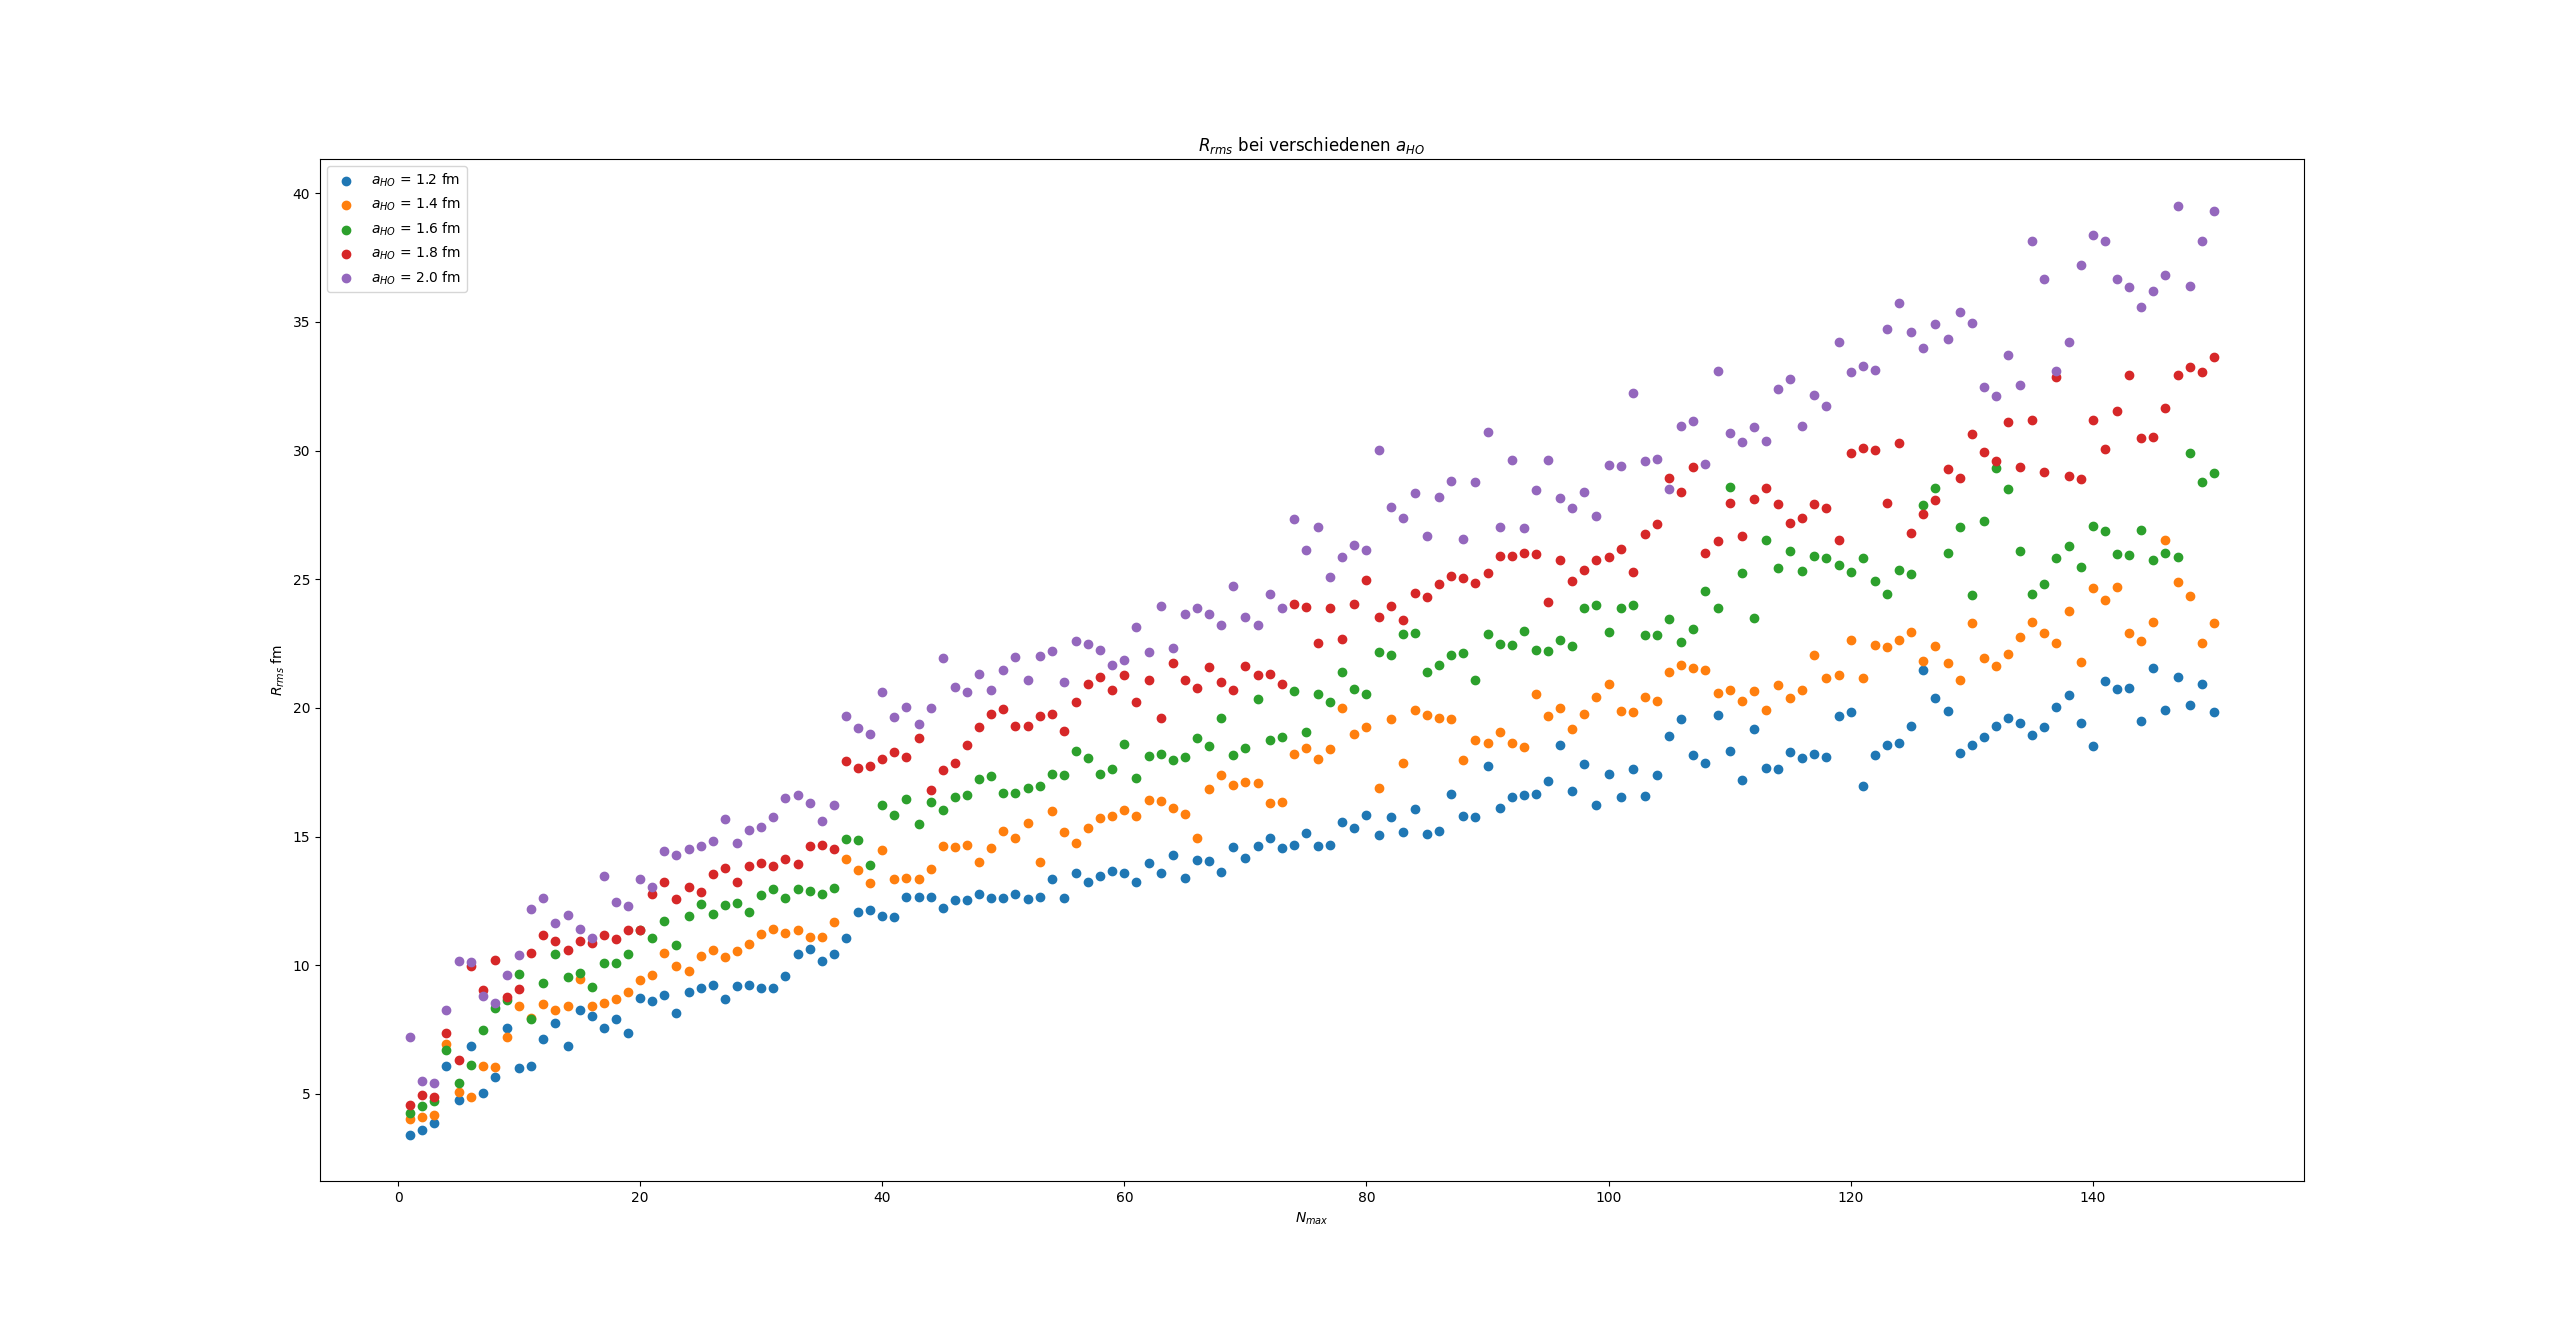
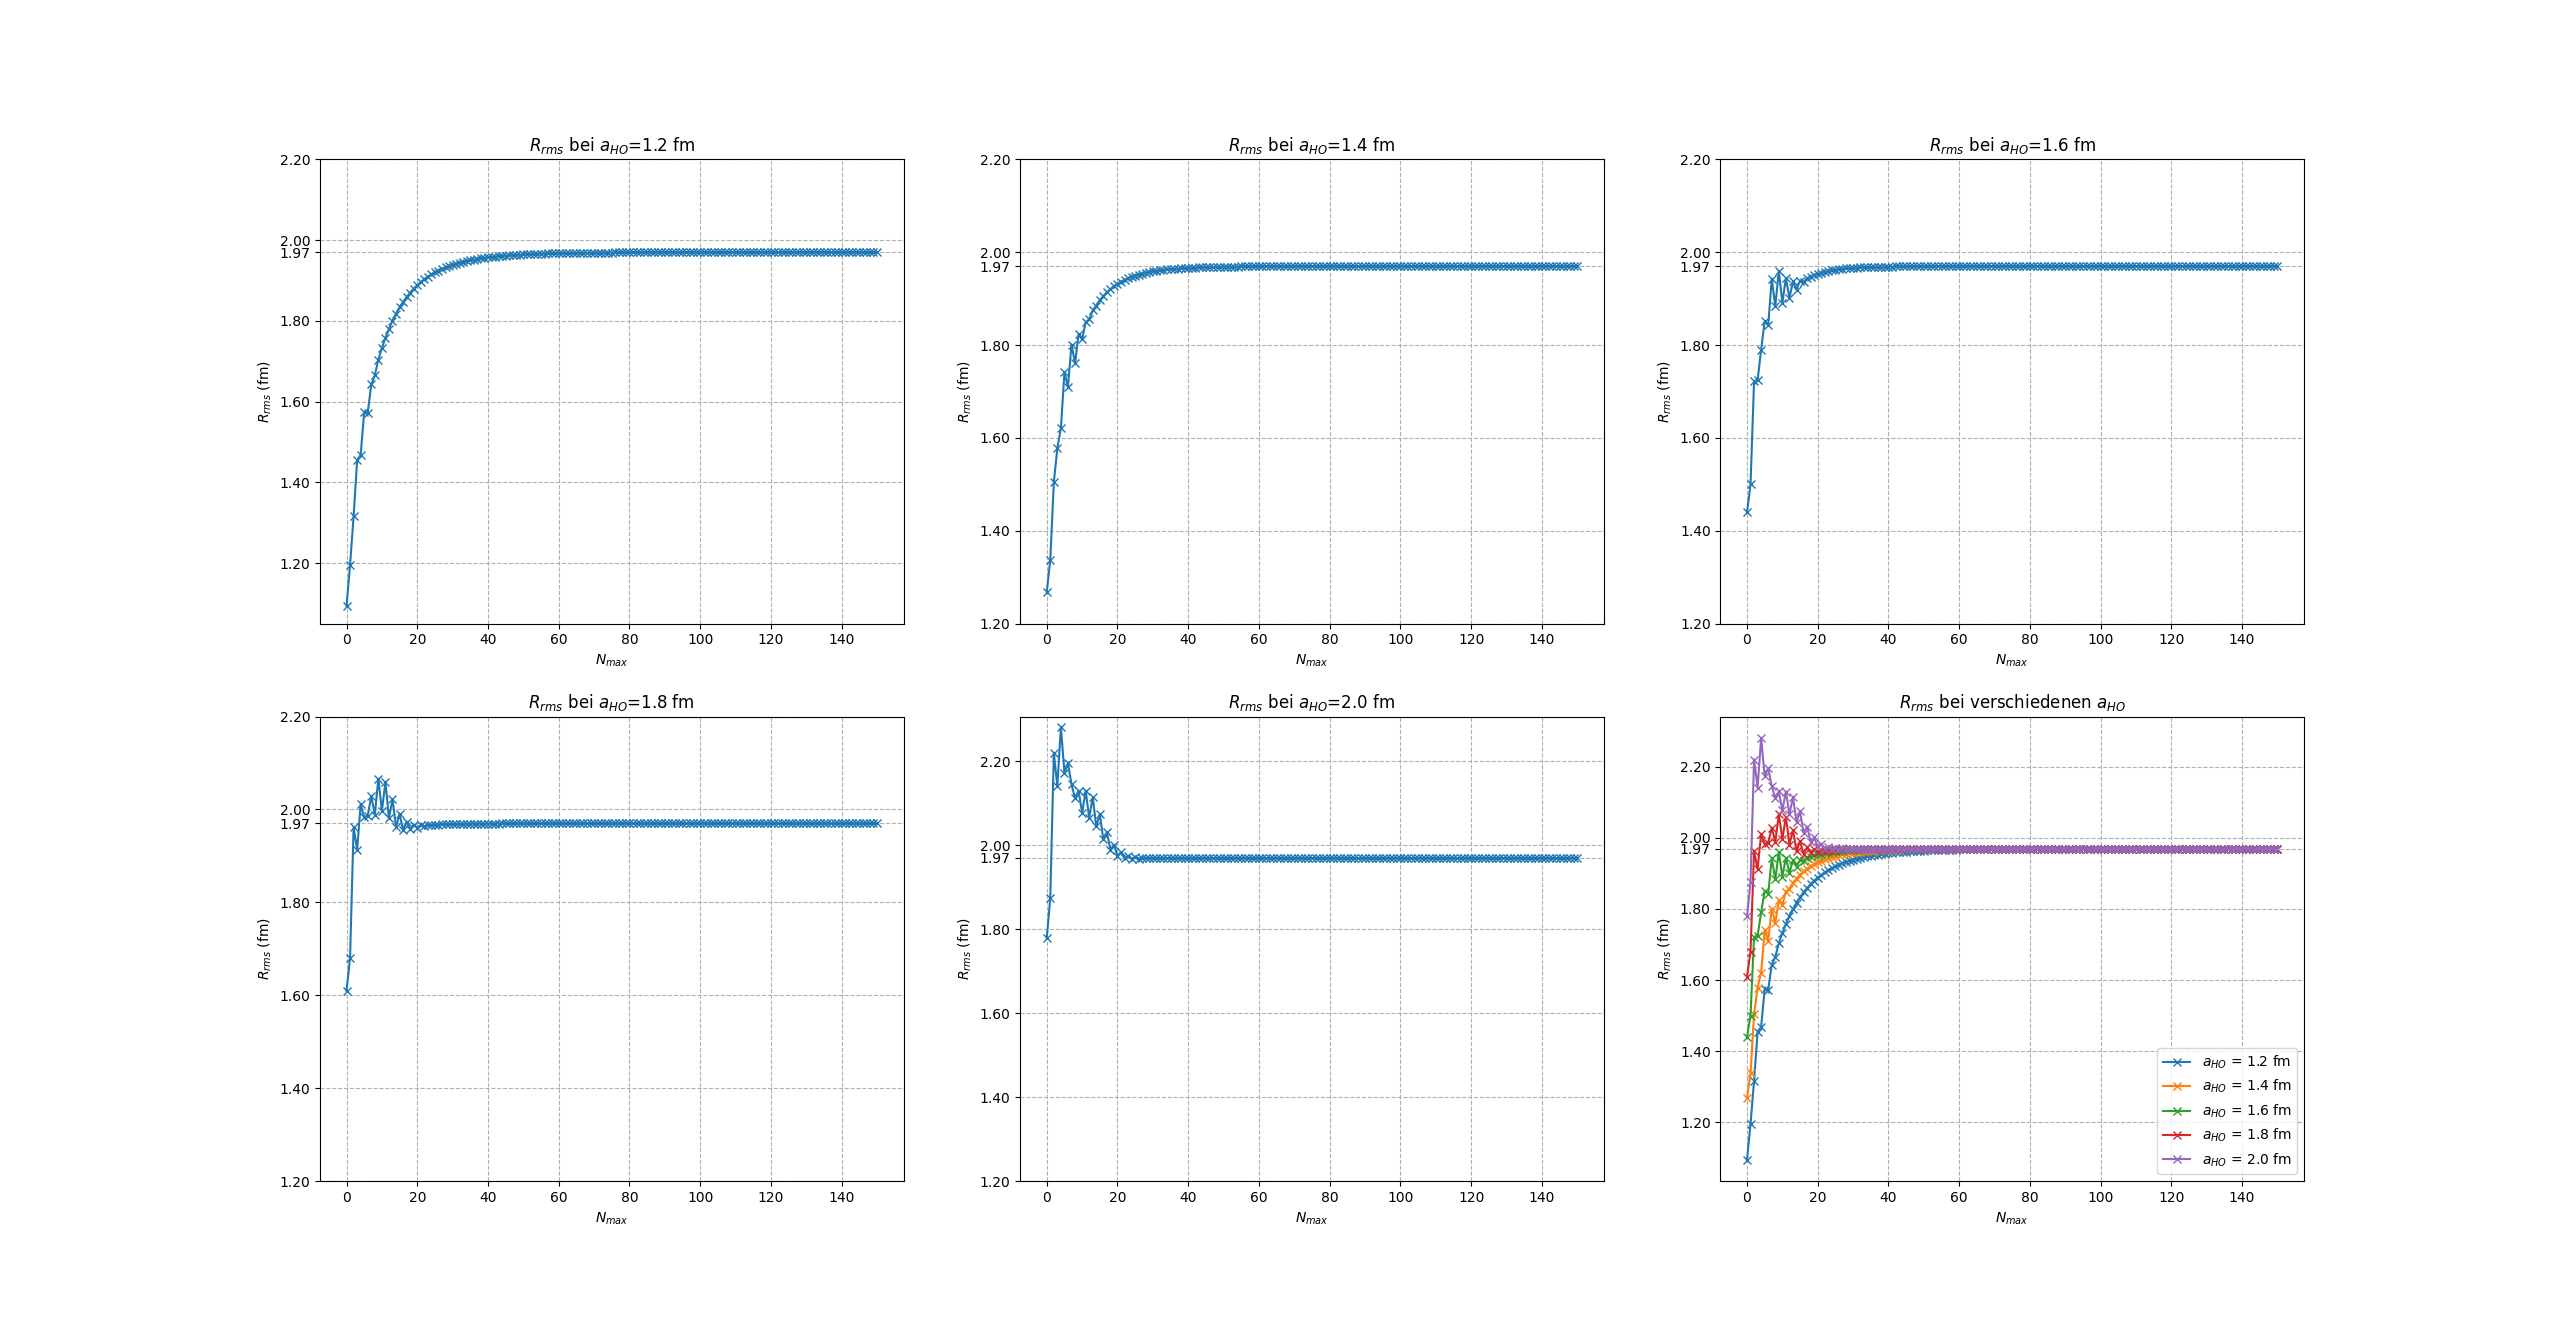
Rrms plots

diff --git a/rms_expval_parallel.py b/rms_expval_parallel.py
@@ -4,7 +4,6 @@ from create_matrix import mat
 from joblib import Parallel, delayed
 from concurrent.futures import ThreadPoolExecutor
 from math import sqrt
-import time
 
 
 chi_Nmax150_aHO12 = np.loadtxt(r'Matrixelemente/chi2bM3A_srg0000_NMax150_LMax02_aHO01.20.meho', skiprows=1)
@@ -18,16 +17,6 @@ rsq_Nmax150 = np.loadtxt(r'Matrixelemente/rsq_NMax150_LMax02.meho', skiprows=1)
 chi = np.array([chi_Nmax150_aHO12, chi_Nmax150_aHO14, chi_Nmax150_aHO16, chi_Nmax150_aHO18, chi_Nmax150_aHO20])
 aHO = np.array([1.2,1.4,1.6,1.8,2])
 
-# chi_mat = mat(chi_Nmax150_aHO16, 100)
-# trel_mat = mat(trel_Nmax150, 100) * 1/1.6**2
-# rsq_mat = mat(rsq_Nmax150, 100) * 1.6**2
-
-# h_eigval, h_eigvec = np.linalg.eig(chi_mat + trel_mat)
-# gz_index = np.where(h_eigval == min(h_eigval))[0][0]
-
-# rsq = np.dot(h_eigvec[gz_index], np.dot(rsq_mat, h_eigvec[gz_index]))
-
-# start_time = time.time()
 
 def rms_Nmax(i, j, rsq_Nmax150, aHO_sq, aHO_inv_sq):
     rsq = 0
@@ -36,8 +25,7 @@ def rms_Nmax(i, j, rsq_Nmax150, aHO_sq, aHO_inv_sq):
     
     mat_rsq = mat(rsq_Nmax150, i) * aHO_sq/4
     
-    rsq_intermediate = np.dot(mat_rsq, h_eigvecs[gs_index])
-    rsq = np.dot(h_eigvecs[gs_index], rsq_intermediate)
+    rsq = np.dot(h_eigvecs[:, gs_index], np.dot(mat_rsq, h_eigvecs[:, gs_index]))
     rms = np.sqrt(rsq)
     
     return [i, rms]
@@ -47,7 +35,7 @@ def rms_aHO(j, Nstep):
     aHO_sq = aHO[j]**2
     aHO_inv_sq = 1 / aHO_sq
     
-    Nmax_lst = np.arange(Nstep, 151, Nstep)
+    Nmax_lst = np.arange(0, 151, Nstep)
     
     with ThreadPoolExecutor() as executor:
         futures = [executor.submit(rms_Nmax, i, j, rsq_Nmax150, aHO_sq, aHO_inv_sq) for i in Nmax_lst]
@@ -57,21 +45,128 @@ def rms_aHO(j, Nstep):
     return rms
 
 rms = np.array(Parallel(n_jobs=-1)(delayed(rms_aHO)(j, 1) for j in range(aHO.shape[0])))
+Rrms = np.mean(rms[:, 150, 1])
 
-# stop_time = time.time()
+plt.figure()
 
-# print((stop_time-start_time)/60)
+# aHO = 1.2 fm
+plt.subplot(231)
+plt.plot(rms[0, :, 0], rms[0,::, 1], 'x-')
+plt.title('$R_{rms}$ bei $a_{HO}$=1.2 fm')
+plt.xlabel('$N_{max}$')
+plt.ylabel("$R_{rms}$ (fm)")
+plt.yticks([1.2, 1.4, 1.6, 1.8, rms[0, 150, 1], 2.0, 2.2])
+plt.grid(linestyle='--')
 
+# aHO = 1.4 fm
+plt.subplot(232)
+plt.plot(rms[1, :, 0], rms[1,::, 1], 'x-')
+plt.title('$R_{rms}$ bei $a_{HO}$=1.4 fm')
+plt.xlabel('$N_{max}$')
+plt.ylabel("$R_{rms}$ (fm)")
+plt.yticks([1.2, 1.4, 1.6, 1.8, rms[1, 150, 1], 2.0, 2.2])
+plt.grid(linestyle='--')
+
+# aHO = 1.6 fm
+plt.subplot(233)
+plt.plot(rms[2, :, 0], rms[2,::, 1], 'x-')
+plt.title('$R_{rms}$ bei $a_{HO}$=1.6 fm')
+plt.xlabel('$N_{max}$')
+plt.ylabel("$R_{rms}$ (fm)")
+plt.yticks([1.2, 1.4, 1.6, 1.8, rms[2, 150, 1], 2.0, 2.2])
+plt.grid(linestyle='--')
+
+# aHO = 1.8 fm
+plt.subplot(234)
+plt.plot(rms[3, :, 0], rms[3,::, 1], 'x-')
+plt.title('$R_{rms}$ bei $a_{HO}$=1.8 fm')
+plt.xlabel('$N_{max}$')
+plt.ylabel("$R_{rms}$ (fm)")
+plt.yticks([1.2, 1.4, 1.6, 1.8, rms[3, 150, 1], 2.0, 2.2])
+plt.grid(linestyle='--')
+
+# aHO = 2.0 fm
+plt.subplot(235)
+plt.plot(rms[4, :, 0], rms[4,::, 1], 'x-')
+plt.title('$R_{rms}$ bei $a_{HO}$=2.0 fm')
+plt.xlabel('$N_{max}$')
+plt.ylabel("$R_{rms}$ (fm)")
+plt.yticks([1.2, 1.4, 1.6, 1.8, rms[4, 150, 1], 2.0, 2.2])
+plt.grid(linestyle='--')
+
+plt.subplot(236)
 for i in range(rms.shape[0]):
-    plt.plot(rms[i,::, 0],rms[i,::, 1])
-
+    plt.plot(rms[i,::, 0],rms[i,::, 1], 'x-')
 legend = np.array([])
 for i in aHO:
     legend = np.append(legend,'$a_{HO}$ = '+ str(i) + ' fm')
-
 plt.title('$R_{rms}$ bei verschiedenen $a_{HO}$')
 plt.legend(legend)
-plt.ylabel("$R_{rms}$ fm")
+plt.ylabel("$R_{rms}$ (fm)")
+plt.yticks([1.2, 1.4, 1.6, 1.8, Rrms, 2.0, 2.2])
 plt.xlabel('$N_{max}$')
+plt.grid(linestyle='--')
+
+
+plt.figure()
+
+# Nmax = 0
+plt.subplot(231)
+plt.plot(aHO, rms[:, 0, 1], 'x-')
+plt.title('$R_{rms}$ bei $N_{max}$=0')
+plt.xlabel('$a_{HO} (fm)$')
+plt.ylabel("$R_{rms}$ (fm)")
+plt.yticks([1.2, 1.4, 1.6, 1.8, Rrms, 2.0, 2.2])
+plt.grid(linestyle='--')
+
+# Nmax = 30
+plt.subplot(232)
+plt.plot(aHO, rms[:, 30, 1], 'x-')
+plt.title('$R_{rms}$ bei $N_{max}$=30')
+plt.xlabel('$a_{HO} (fm)$')
+plt.ylabel("$R_{rms}$ (fm)")
+plt.yticks([1.2, 1.4, 1.6, 1.8, Rrms, 2.0, 2.2])
+plt.grid(linestyle='--')
+
+# Nmax = 60
+plt.subplot(233)
+plt.plot(aHO, rms[:, 60, 1], 'x-')
+plt.title('$R_{rms}$ bei $N_{max}$=60')
+plt.xlabel('$a_{HO} (fm)$')
+plt.ylabel("$R_{rms}$ (fm)")
+plt.yticks([1.2, 1.4, 1.6, 1.8, Rrms, 2.0, 2.2])
+plt.grid(linestyle='--')
+
+# Nmax = 90
+plt.subplot(234)
+plt.plot(aHO, rms[:, 90, 1], 'x-')
+plt.title('$R_{rms}$ bei $N_{max}$=90')
+plt.xlabel('$a_{HO} (fm)$')
+plt.ylabel("$R_{rms}$ (fm)")
+plt.yticks([1.2, 1.4, 1.6, 1.8, Rrms, 2.0, 2.2])
+plt.grid(linestyle='--')
+
+# Nmax = 120
+plt.subplot(235)
+plt.plot(aHO, rms[:, 120, 1], 'x-')
+plt.title('$R_{rms}$ bei $N_{max}$=120')
+plt.xlabel('$a_{HO} (fm)$')
+plt.ylabel("$R_{rms}$ (fm)")
+plt.yticks([1.2, 1.4, 1.6, 1.8, Rrms, 2.0, 2.2])
+plt.grid(linestyle='--')
+
+Nmax_step30 = np.arange(0, 121, 30)
+plt.subplot(236)
+for i in Nmax_step30:
+    plt.plot(aHO, rms[:, i, 1], 'x-')
+legend = np.array([])
+for i in Nmax_step30:
+    legend = np.append(legend,'$N_{max}$ = '+ str(i))
+plt.title('$R_{rms}$ bei verschiedenen $N_{max}$')
+plt.legend(legend)
+plt.ylabel("$R_{rms}$ (fm)")
+plt.yticks([1.2, 1.4, 1.6, 1.8, Rrms, 2.0, 2.2])
+plt.xlabel('$a_{HO}$ (fm)')
+plt.grid(linestyle='--')
 
 plt.show()

diff --git a/test.py b/test.py
@@ -1,7 +1,4 @@
 import numpy as np
-from create_matrix import mat
 
-matrix = np.diag([1, 2, 3])
-eigvals, eigvecs = np.linalg.eigh(matrix)
-print(eigvecs[:,2])
+print(np.arange(0, 151, 2))
 
